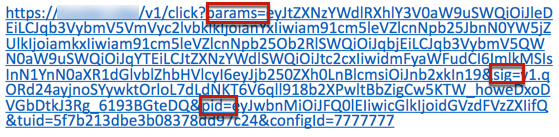
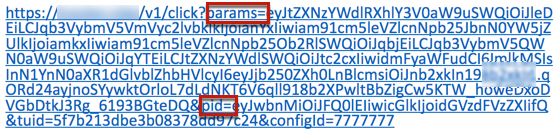
API call for opt-out doc updates

Changed region(s): [[0.8515, 0.438, 0.9732, 0.6423]]

diff --git a/help/using/offers/offer-library/add-constraints.md b/help/using/offers/offer-library/add-constraints.md
@@ -214,7 +214,7 @@ The **[!UICONTROL Capping event]** field allows you to define which **[!UICONTRO
 >
 >For all capping events except decision event, the decision management feedback may not be automatically collected, which could result in the capping counter not being correctly incremented. [Learn more](../data-collection/data-collection.md)
 >
->To make sure each capping event is tracked and accouned for in the capping counter, ensure that the schema used to collect experience events includes the correct field group for that event. [Learn more](../data-collection/schema-requirement.md)
+>To make sure each capping event is tracked and accounted for in the capping counter, ensure that the schema used to collect experience events includes the correct field group for that event. [Learn more](../data-collection/schema-requirement.md)
 
 ### Capping count {#capping-count}
 

diff --git a/help/using/email/email-opt-out.md b/help/using/email/email-opt-out.md
@@ -58,12 +58,11 @@ To have your recipients opted out when they submit their choice from the landing
 
 This POST call is as follows:
 
-Endpoint: platform.adobe.io/journey/imp/consent/preferences
+Endpoint: https://platform.adobe.io/journey/imp/consent/preferences
 
 Query parameters:
 
 * **params**: contains the encrypted payload
-* **sig**: signature
 * **pid**: encrypted profile ID
 
 These three parameters will be included into the third-party landing page URL sent to your recipient:
